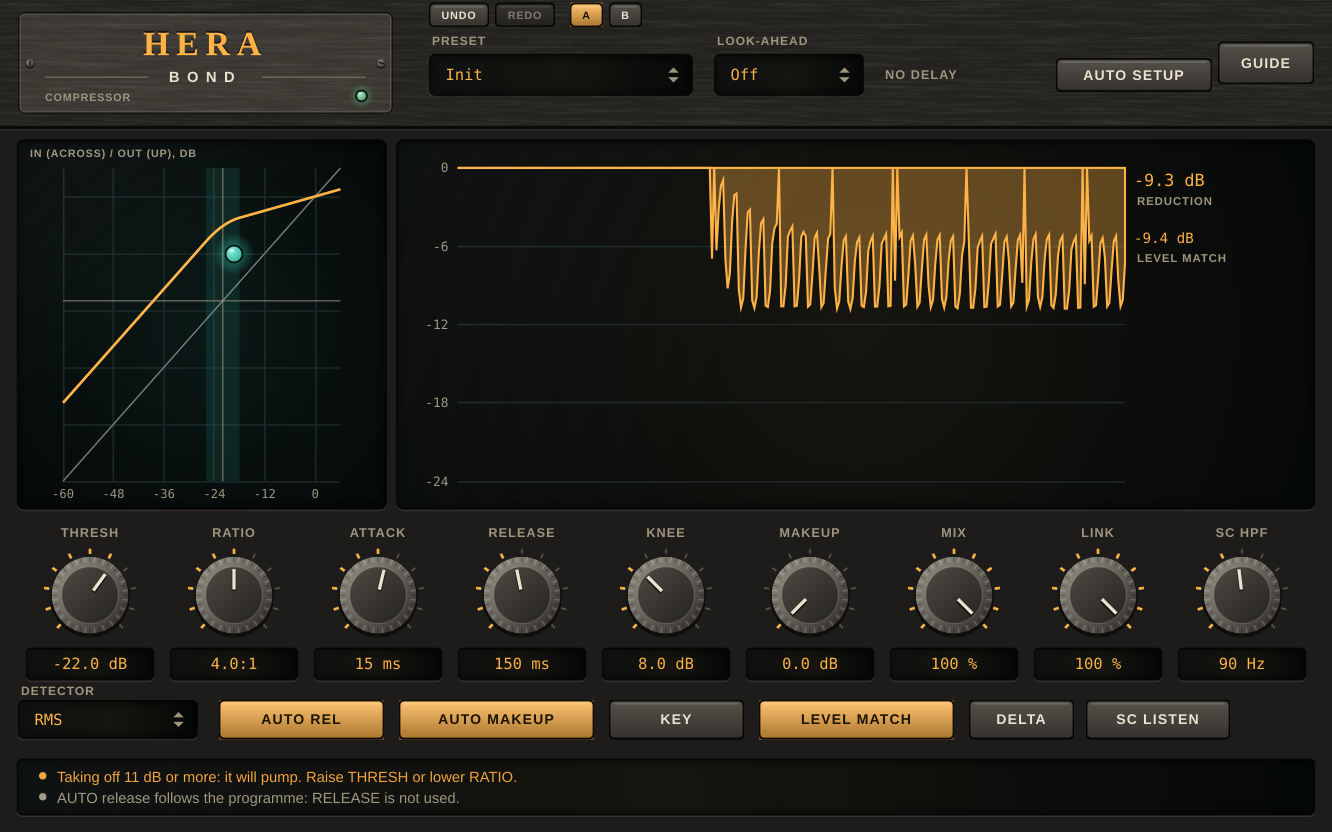
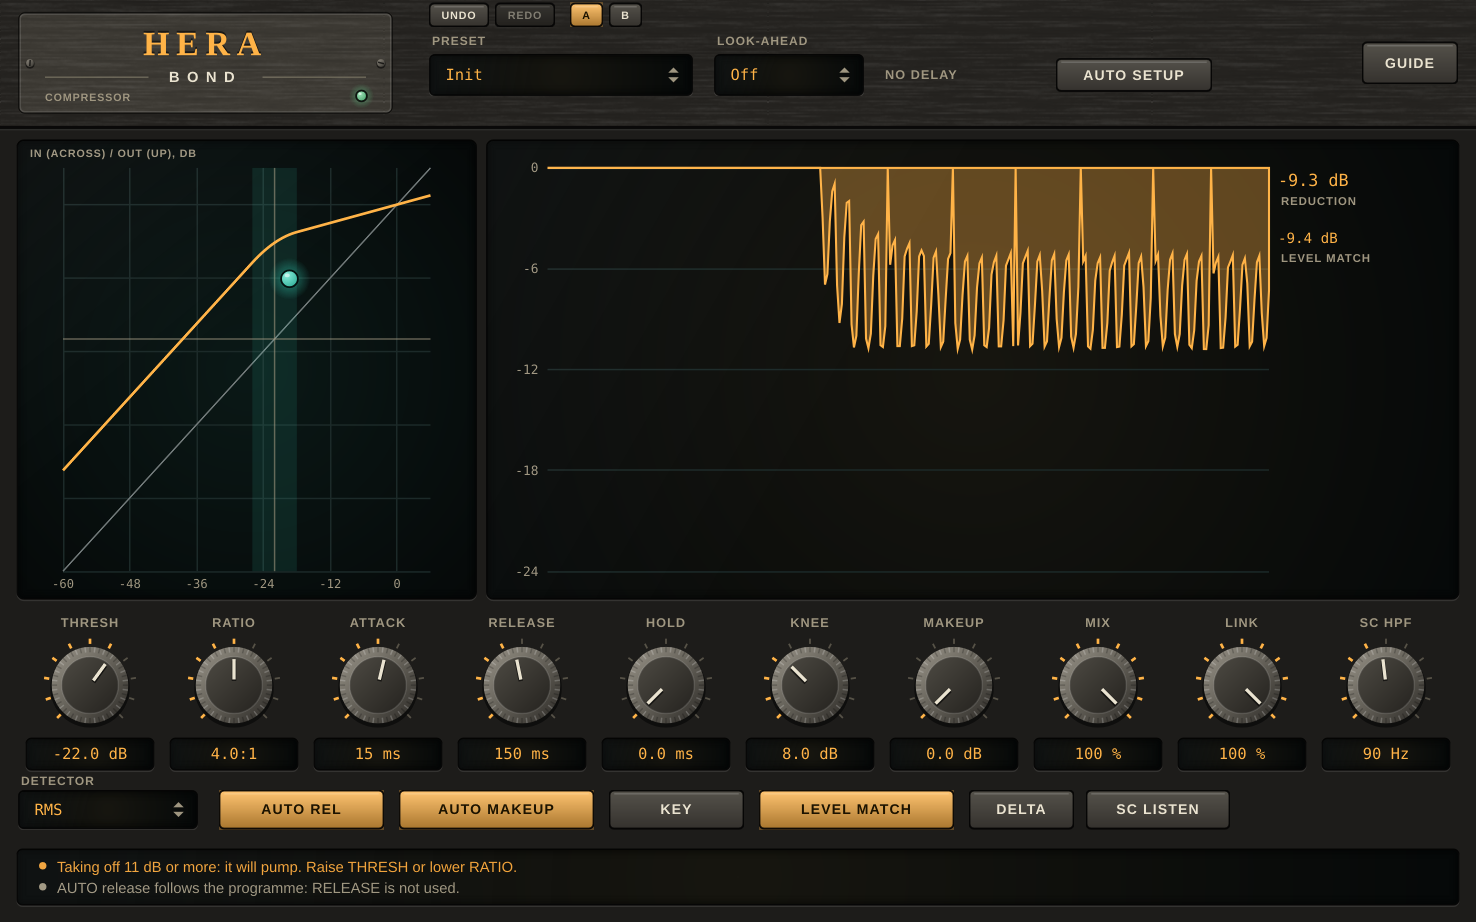
Hera: HOLD keeps the gain down for a set time before RELEASE starts
Claude-Session: https://claude.ai/code/session_01PJDLAgLfcFaZRPW2gHfSC8

diff --git a/plugins/hera/Source/PluginEditor.cpp b/plugins/hera/Source/PluginEditor.cpp
@@ -11,7 +11,7 @@ namespace hw = ui::hw;
 namespace
 {
 constexpr int headerHeight = 84;
-constexpr int kKnobs = 9;
+constexpr int kKnobs = 10;
 constexpr int cellWidth = 96;
 constexpr int cellHeight = 108;
 constexpr int rowHeight = 34;
@@ -26,6 +26,7 @@ HeraEditor::HeraEditor (HeraProcessor& p)
       ratio (p.apvts, id::ratio, "RATIO", "How many dB the sound has to rise past the threshold for 1 dB more to come out. 20:1 is nearly a limiter.", ui::Knob::Layout::below),
       attack (p.apvts, id::attack, "ATTACK", "How fast the gain goes down (63% of the way in this time). Slow lets the transient through, fast takes it away.", ui::Knob::Layout::below),
       release (p.apvts, id::release, "RELEASE", "How fast the gain comes back (63% of the way in this time). Not used with AUTO release.", ui::Knob::Layout::below),
+      hold (p.apvts, id::hold, "HOLD", "How long the gain stays down after the level falls below it, before RELEASE starts: it keeps a low note or a pulse from being let go of between its peaks. 0 is none. Not used with AUTO release.", ui::Knob::Layout::below),
       knee (p.apvts, id::knee, "KNEE", "How gradually it starts compressing around THRESH: 0 is hard, 24 dB is gentle.", ui::Knob::Layout::below),
       makeup (p.apvts, id::makeup, "MAKEUP", "Gain after the compressor (added to AUTO makeup when that is on).", ui::Knob::Layout::below),
       mix (p.apvts, id::mix, "MIX", "100%: the compressed sound. Less: it is blended with the dry sound (parallel compression keeps the transients and lifts the body).", ui::Knob::Layout::below),
@@ -51,7 +52,7 @@ HeraEditor::HeraEditor (HeraProcessor& p)
     listenButton.setClickingTogglesState (true);
     listenButton.setTooltip ("Listen to what the detector hears: the key (this track, or the sidechain with KEY on) after SC HPF. Not saved with the project, and it ends when the window closes.");
     listenButton.onClick = [this] { proc.engine.scListen = listenButton.getToggleState(); };
-    for (auto* c : std::initializer_list<juce::Component*> { &threshold, &ratio, &attack, &release, &knee, &makeup, &mix, &link, &hpf, &detector, &lookahead, &presetBox, &autoRelease, &autoMakeup, &key, &levelMatch, &deltaButton, &listenButton, &guideButton })
+    for (auto* c : std::initializer_list<juce::Component*> { &threshold, &ratio, &attack, &release, &hold, &knee, &makeup, &mix, &link, &hpf, &detector, &lookahead, &presetBox, &autoRelease, &autoMakeup, &key, &levelMatch, &deltaButton, &listenButton, &guideButton })
         addAndMakeVisible (*c);
     addAndMakeVisible (undoButtons);
     addAndMakeVisible (abButtons);
@@ -101,7 +102,7 @@ void HeraEditor::resized()
     historyArea = display;
     bounds.removeFromTop (8);
     auto knobs = bounds.removeFromTop (cellHeight);
-    for (auto* k : { &threshold, &ratio, &attack, &release, &knee, &makeup, &mix, &link, &hpf })
+    for (auto* k : { &threshold, &ratio, &attack, &release, &hold, &knee, &makeup, &mix, &link, &hpf })
         k->setBounds (knobs.removeFromLeft (cellWidth));
     bounds.removeFromTop (8);
     auto row = bounds.removeFromTop (rowHeight).withTrimmedTop (4).withTrimmedBottom (4);

diff --git a/plugins/hera/Tests/Tests.cpp b/plugins/hera/Tests/Tests.cpp
@@ -635,5 +635,55 @@ int main()
 
     }
 
+    // [12] HOLD: the gain waits before it releases.
+    std::printf ("\n[12] Hold\n");
+    {
+        EngineParams p;
+        p.thresholdDb = -30.0f;
+        p.ratio = 8.0f;
+        p.kneeDb = 0.0f;
+        p.detector = Detector::peak;
+        p.attackMs = 5.0f;
+        p.releaseMs = 100.0f;
+        // A loud tone for 1 s, then a quiet one (under the threshold) that shows the gain.
+        const int n = 48000 * 2;
+        Stereo in = sine (1000.0, -6.0, n);
+        const auto quiet = sine (1000.0, -45.0, n);
+        for (int i = 48000; i < n; ++i) in.l[(size_t) i] = in.r[(size_t) i] = quiet.l[(size_t) i];
+        const auto reductionAfter = [&] (float holdMs, double secondsAfterStop)
+        {
+            EngineParams q = p;
+            q.holdMs = holdMs;
+            Engine e;
+            e.prepare (kFs);
+            const auto out = run (e, in, q, 64);
+            const size_t c = (size_t) ((1.0 + secondsAfterStop) * kFs);
+            return db (peakOf (in.l, c, c + 48)) - db (peakOf (out.l, c, c + 48));
+        };
+        const double full = reductionAfter (0.0f, -0.05);
+        const double none = reductionAfter (0.0f, 0.2), held = reductionAfter (300.0f, 0.2), after = reductionAfter (300.0f, 0.4);
+        check (std::fabs (full - 21.0) < 1.0 && none < 0.25 * full, fmt ("without a hold the reduction (%.1f dB) is %.1f dB 200 ms after the tone stops (RELEASE 100 ms)", full, none));
+        check (std::fabs (held - full) < 0.3, fmt ("HOLD 300 ms: 200 ms after the tone stops the reduction is still %.1f dB (%.1f before)", held, full));
+        check (after < 0.6 * full && after > 0.05 * full, fmt ("HOLD 300 ms: 400 ms after the stop (100 ms after the hold) the gain is letting go: %.1f dB of %.1f", after, full));
+        // A gap shorter than the hold does not let the gain go: the level comes back and the wait starts over.
+        Stereo gap = sine (1000.0, -6.0, n);
+        const auto gapQuiet = sine (1000.0, -45.0, n);
+        for (int i = 24000; i < 24000 + 4800; ++i) gap.l[(size_t) i] = gap.r[(size_t) i] = gapQuiet.l[(size_t) i];
+        EngineParams q = p;
+        q.holdMs = 200.0f;
+        Engine e;
+        e.prepare (kFs);
+        const auto out = run (e, gap, q, 64);
+        const size_t c = 24000 + 4800 - 96;
+        check (std::fabs ((db (peakOf (gap.l, c, c + 48)) - db (peakOf (out.l, c, c + 48))) - 21.0) < 1.0, "a 100 ms quiet gap inside a 200 ms hold keeps the full reduction");
+        // Block size makes no difference.
+        Engine a, b;
+        a.prepare (kFs);
+        b.prepare (kFs);
+        q.holdMs = 120.0f;
+        const auto oa = run (a, in, q, 64), ob = run (b, in, q, 777);
+        check (oa.l == ob.l, "HOLD gives the same output for any block size");
+    }
+
     return test::finish ("HeraTests");
 }

diff --git a/plugins/hera/Source/DSP/Engine.h b/plugins/hera/Source/DSP/Engine.h
@@ -28,12 +28,14 @@ inline constexpr double kRestDb = 1e-3;           // a reduction under this, wit
 // The choice is an index into this list (Off first), so a session keeps its meaning if a value is ever added at the end.
 inline constexpr std::array<float, 5> kLookaheadMs { 0.0f, 1.0f, 2.0f, 5.0f, 10.0f };
 inline constexpr int kNumLookaheads = (int) kLookaheadMs.size();
+inline constexpr float kMaxHoldMs = 500.0f;
 
 struct EngineParams
 {
     float thresholdDb = -18.0f;
     float ratio = 2.0f;
     float attackMs = 10.0f, releaseMs = 150.0f;
+    float holdMs = 0.0f;       // the gain stays where it is for this long after the level falls below it, then RELEASE starts; 0 is no hold. Not used with AUTO release
     float kneeDb = 6.0f;
     float makeupDb = 0.0f;
     float mix = 1.0f;          // 0 dry .. 1 compressed
@@ -235,6 +237,7 @@ public:
         }
         const bool hpfOn = p.hpfHz > 20.5f;
         const double aFast = coefOf (p.attackMs), rFast = coefOf (p.releaseMs);
+        const int holdSamples = (int) std::lround (0.001 * (double) std::clamp (p.holdMs, 0.0f, kMaxHoldMs) * fs);
         const double aSlow = coefOf (p.attackMs * kSlowAttackFactor), rSlow = coefOf (kSlowAutoReleaseMs), rAutoFast = coefOf (kFastAutoReleaseMs);
         const double ratio = std::fmax (p.ratio, 1.0);
         const double makeupTarget = std::pow (10.0, ((double) p.makeupDb + (p.autoMakeup ? autoMakeupDb (p.thresholdDb, ratio, p.kneeDb) : 0.0)) / 20.0);
@@ -326,7 +329,14 @@ public:
                 }
                 else
                 {
-                    s.fast += (wanted - s.fast) * (wanted > s.fast ? aFast : rFast);
+                    // HOLD: while the level is under what the gain is already doing, the gain waits `holdSamples` before it lets go; any time the level reaches it again the wait starts over.
+                    // With a hold of 0 the counter is never above 0, so this is the follower it always was, bit for bit.
+                    if (wanted >= s.fast)
+                        s.hold = holdSamples;
+                    if (wanted < s.fast && s.hold > 0)
+                        --s.hold;
+                    else
+                        s.fast += (wanted - s.fast) * (wanted > s.fast ? aFast : rFast);
                     if (s.fast < kRestDb && wanted == 0.0) s.fast = 0.0; // back at rest exactly: a gain of 1 is exactly 1
                     gr = s.fast;
                 }
@@ -415,6 +425,7 @@ private:
     {
         pdsp::Biquad hpf;
         double ms = 0.0, env = 0.0, fast = 0.0, slow = 0.0;
+        int hold = 0;             // samples the gain still waits before it releases
         std::vector<double> ring; // the sound of the last look-ahead, for the delay
     };
 

diff --git a/plugins/hera/Source/Parameters.h b/plugins/hera/Source/Parameters.h
@@ -12,7 +12,7 @@ namespace hera
 namespace id
 {
 inline const juce::String threshold { "thresh" }, ratio { "ratio" }, attack { "attack" }, release { "release" }, knee { "knee" }, makeup { "makeup" }, mix { "mix" },
-                          link { "link" }, hpf { "hpf" }, detector { "detector" }, autoRelease { "auto_rel" }, autoMakeup { "auto_mk" }, external { "key" }, lookahead { "lookahead" }, match { "match" };
+                          link { "link" }, hpf { "hpf" }, hold { "hold" }, detector { "detector" }, autoRelease { "auto_rel" }, autoMakeup { "auto_mk" }, external { "key" }, lookahead { "lookahead" }, match { "match" };
 }
 
 inline const juce::StringArray detectorNames { "Peak", "RMS" };
@@ -63,6 +63,8 @@ inline juce::AudioProcessorValueTreeState::ParameterLayout createLayout()
     p.push_back (std::make_unique<AudioParameterChoice> (ParameterID { id::lookahead, 2 }, "Look-ahead", lookaheadNames, d.lookahead));
     // Version 3: a session saved before it opens with LEVEL MATCH off, which is how it always sounded.
     p.push_back (std::make_unique<AudioParameterBool> (ParameterID { id::match, 3 }, "Level Match", d.match));
+    // Version 4: HOLD, 0 ms (no hold) in a session saved before it, which is how it always sounded.
+    p.push_back (std::make_unique<AudioParameterFloat> (ParameterID { id::hold, 4 }, "Hold", skewed (0.0f, kMaxHoldMs, 1.0f, 50.0f), d.holdMs, Attr().withStringFromValueFunction (ms).withValueFromStringFunction (msValue)));
     return { p.begin(), p.end() };
 }
 
@@ -86,6 +88,7 @@ inline EngineParams readParams (juce::AudioProcessorValueTreeState& s)
     e.external = v (id::external) > 0.5f;
     e.lookahead = std::clamp ((int) v (id::lookahead), 0, kNumLookaheads - 1);
     e.match = v (id::match) > 0.5f;
+    e.holdMs = v (id::hold);
     return e;
 }
 

diff --git a/plugins/hera/Tests/UiCheck.cpp b/plugins/hera/Tests/UiCheck.cpp
@@ -24,7 +24,7 @@ int main()
     proc.prepareToPlay (48000.0, 512);
 
     check (proc.getName() == juce::String (gui::kProjectWord) + " " + gui::kPluginWord, "the reported name is the nameplate's two words");
-    check (proc.getParameters().size() == 15, fmt ("%d parameters: nine knobs, the detector, three switches, the look-ahead and LEVEL MATCH", proc.getParameters().size()));
+    check (proc.getParameters().size() == 16, fmt ("%d parameters: ten knobs, the detector, three switches, the look-ahead and LEVEL MATCH", proc.getParameters().size()));
     check (lookaheadNames.size() == kNumLookaheads, "the look-ahead list matches the engine's");
     check (detectorNames.size() == kNumDetectors, "the choice list matches the engine's detectors");
     const auto d = readParams (proc.apvts);
@@ -311,7 +311,7 @@ int main()
             editor.listenButton.triggerClick();
             juce::MessageManager::getInstance()->runDispatchLoopUntil (100);
             check (q.engine.scListen.load() && ui::hasNote (editor.notes(), "SC LISTEN is on", ui::Severity::warning), "SC LISTEN turns the engine's monitor on, and a warning says you hear the key");
-            check (q.getParameters().size() == 15 && ! (bool) q.apvts.state.getProperty ("delta", false), "neither is a parameter: they are never saved or automated");
+            check (q.getParameters().size() == 16 && ! (bool) q.apvts.state.getProperty ("delta", false), "neither is a parameter: they are never saved or automated");
         }
         check (! q.engine.delta.load() && ! q.engine.scListen.load(), "closing the editor ends both: monitoring never outlives its window");
         setValue (q.apvts, id::match, 1.0f);

diff --git a/plugins/hera/Source/Advice.h b/plugins/hera/Source/Advice.h
@@ -94,7 +94,7 @@ inline const char* guideText()
 {
     return "FOR\n"
            "Compressing a whole track or a bus: it turns the sound down while it is over THRESH, by RATIO, so the loud and the quiet come closer. "
-           "Slow ATTACK keeps the punch, fast takes it away; RELEASE sets how it lets go (AUTO follows the programme). With MIX under 100% "
+           "Slow ATTACK keeps the punch, fast takes it away; RELEASE sets how it lets go (AUTO follows the programme), after HOLD has kept the gain down for a set time. With MIX under 100% "
            "the compressed sound is blended with the dry one (parallel compression).\n\n"
            "SIDECHAIN\n"
            "The detector can listen to a high-passed copy (SC HIGH-PASS) so the bass does not trigger it, or to another track routed to the sidechain input (KEY). SC LISTEN plays what the detector hears (after the high-pass) instead of the track.\n\n"

diff --git a/plugins/hera/Source/PluginEditor.h b/plugins/hera/Source/PluginEditor.h
@@ -23,7 +23,7 @@ public:
 
     static constexpr int kHistory = 300;
 
-    ui::Knob threshold, ratio, attack, release, knee, makeup, mix, link, hpf;
+    ui::Knob threshold, ratio, attack, release, hold, knee, makeup, mix, link, hpf;
     ui::Choice detector, lookahead;
     ui::PresetBox presetBox;
     ui::Toggle autoRelease, autoMakeup, key, levelMatch;

diff --git a/plugins/hera/README.md b/plugins/hera/README.md
@@ -11,7 +11,7 @@ makeup (or one that makes up what the compression takes), a parallel **mix**, a 
 
 ![Hera Bond](docs/screenshot.png)
 
-*Headless render of the editor (the hardware-style interface shared with the other plugins). A programme with a beat through an RMS detector, THRESH -22 dB, RATIO 4:1, ATTACK 15 ms, RELEASE 150 ms, an 8 dB knee, AUTO REL, AUTO MAKEUP and LEVEL MATCH on. On the left, the transfer curve (input across, output up) with the dot where the level is now, the shaded band of the knee (THRESH -22 dB, 8 dB knee: -26 to -18 dB on the input) and the thin lines at THRESH; at the top, UNDO / REDO (UNDO lit, REDO not), the A / B pair (A lit, as on opening) and AUTO SETUP (idle, not pressed) beside the presets; on the right, the reduction over the last seconds (-9.3 dB now), with **LEVEL MATCH** on and its gain read out under the reduction (-9.4 dB: the compression takes about that much level, and the match gives it back). The strip warns that taking off 11 dB or more will pump. Regenerate with the command under "Development".*
+*Headless render of the editor (the hardware-style interface shared with the other plugins). A programme with a beat through an RMS detector, THRESH -22 dB, RATIO 4:1, ATTACK 15 ms, RELEASE 150 ms, HOLD 0 ms (the knob between RELEASE and KNEE), an 8 dB knee, AUTO REL, AUTO MAKEUP and LEVEL MATCH on. On the left, the transfer curve (input across, output up) with the dot where the level is now, the shaded band of the knee (THRESH -22 dB, 8 dB knee: -26 to -18 dB on the input) and the thin lines at THRESH; at the top, UNDO / REDO (UNDO lit, REDO not), the A / B pair (A lit, as on opening) and AUTO SETUP (idle, not pressed) beside the presets; on the right, the reduction over the last seconds (-9.3 dB now), with **LEVEL MATCH** on and its gain read out under the reduction (-9.4 dB: the compression takes about that much level, and the match gives it back). The strip warns that taking off 11 dB or more will pump. Regenerate with the command under "Development".*
 
 ## What it does
 
@@ -21,6 +21,7 @@ makeup (or one that makes up what the compression takes), a parallel **mix**, a 
 | **Auto setup** | One press (AUTO SETUP, beside the presets): listens to four seconds of the sound and sets a complete starting point from it: RATIO, ATTACK and RELEASE from how peaky the sound is (its crest factor: 2:1, 10 ms and 300 ms for a dense mix, 4:1, 25 ms and 100 ms for a very dynamic one, linear between), and THRESH so that the sound is turned down by about 3.5 dB on average while it plays, at that RATIO. Silence is not counted; the answer is the average over the time, so a few loud bursts do not set it alone. All four move together as one undo step; MIX, MAKEUP, KNEE and the rest are left as they were. A silent passage, or a sound too quiet to reach 3.5 dB, leaves all four as they were, and the strip says which. Everything stays editable. |
 | **Ratio** | 1:1 to 20:1, 2:1 by default: how many dB it takes past the threshold for 1 dB more to come out. |
 | **Attack / Release** | 0.1 to 200 ms (10) and 10 ms to 2 s (150): the time the gain takes to go 63% of the way down and of the way back. |
+| **Hold** | 0 to 500 ms (0, off): after the level falls below what the gain is doing, the gain stays where it is for this long, and only then does RELEASE start; every time the level reaches it again the wait starts over. A hold keeps a low note or a pulse from being let go of between its peaks (the compressor designs in Giannoulis, Massberg and Reiss, JAES 2012, and in most hardware and plug-in compressors have one). With AUTO release it is not used. |
 | **Knee** | 0 to 24 dB, 6 by default: how gradually it starts, around the threshold. |
 | **Makeup** | 0 to +24 dB. **Auto makeup** adds what the compression takes from a signal at 0 dBFS, so a full-scale input is full scale out. |
 | **Mix** | 0 to 100%, 100 by default: the compressed sound blended with the dry one (parallel compression). |
@@ -53,6 +54,7 @@ The display is the transfer curve (input level across, output up; the diagonal i
   With a 12 dB knee, exactly at the threshold the reduction is 1.14 dB (1.125), and 8 dB under it none.
 - Under the threshold the output is the input, bit for bit; three seconds after a loud passage the gain is back at exactly 1 and the quiet tone is the input, bit for bit.
 - ATTACK 20 ms: after 20 ms the reduction has come 63% of the way to its value (20.9 dB; the law 21). RELEASE 200 ms: 200 ms after the tone stops 41% is left (a one-pole is 37%; the peak detector's 15 ms fall adds the rest), after 1.4 s 0.02 dB.
+- HOLD 300 ms: with a 21 dB reduction, 200 ms after the tone stops it is still 21.0 dB (without a hold 3.5 dB are left); 100 ms after the hold has ended it is letting go (7.6 dB). A 100 ms quiet gap inside a 200 ms hold keeps the full reduction; the output is the same for any block size, and a hold of 0 is the compressor as it was (tests [2] and [8]).
 - AUTO release: the reduction halves 93 ms after a 30 ms burst but 1008 ms after a 1.5 s one.
 - LINK 100%: a loud left and a right 26 dB under it get the same gain (-13.5 dB both); LINK 0%: the left is turned down by 13.5 dB and the right by 0.00.
 - SIDECHAIN: a quiet tone is turned down by 13.4 dB by a loud key it never contained; with KEY off the sidechain is ignored (the tone is untouched). A 250 Hz detector high-pass: a 50 Hz tone that is turned down 13.4 dB without it is turned down 0.0 dB with it.

diff --git a/plugins/hera/CLAUDE.md b/plugins/hera/CLAUDE.md
@@ -41,6 +41,8 @@ sound itself (`pure`), not `dry + mix x (wet - dry)`. That is what makes the idl
 **AUTO release** is two followers and the gain is the larger of the two. The fast one has ATTACK and a fixed 50 ms release (`kFastAutoReleaseMs`); the slow one has an attack 20 times longer (`kSlowAttackFactor`) and a fixed 600 ms release
 (`kSlowAutoReleaseMs`). A short burst only moves the fast one far, a long passage moves both. RELEASE is not used.
 
+**HOLD** (`EngineParams::holdMs`, `Channel::hold`, plain release only) is a counter of samples: while `wanted < fast` and the counter is above 0 the follower does not move and the counter counts down; whenever `wanted >= fast` it is set back to the full hold. At 0 ms the counter is never above 0, so the follower is the one without a hold, bit for bit (tests [2], [8]). Not used with AUTO release.
+
 **LINK** is `own + link x (louder - own)` on the linear detector levels, not on the gains: at 100% both channels see the same level and get the same gain exactly.
 
 **The sidechain** is read only when KEY is on and the host connected one (`keyL != nullptr`); a mono key is given with `keyR == nullptr`. The detector's high-pass is on the key, whichever it is. The key is never heard.
@@ -64,7 +66,7 @@ its order is the order of `lookaheadNames`, the parameter's choice.
 
 **Real time.** `Engine::process` allocates and locks nothing. **Bad samples:** NaN and infinity are replaced by 0 on the way in.
 
-**Parameters.** Ids (`hera::id`) are stored in sessions and automation: never rename or remove one. All are `ParameterID` version 1 except `lookahead`, which is version 2 (a session saved before it opens with it Off) and `match`, version 3 (off); a new one needs a higher version, an entry in `readParams()` and a place in the editor.
+**Parameters.** Ids (`hera::id`) are stored in sessions and automation: never rename or remove one. All are `ParameterID` version 1 except `lookahead`, which is version 2 (a session saved before it opens with it Off), `match`, version 3 (off), and `hold`, version 4 (0 ms); a new one needs a higher version, an entry in `readParams()` and a place in the editor.
 The order of `detectorNames` is the order of `Detector`.
 
 ## DRY: where each thing lives
